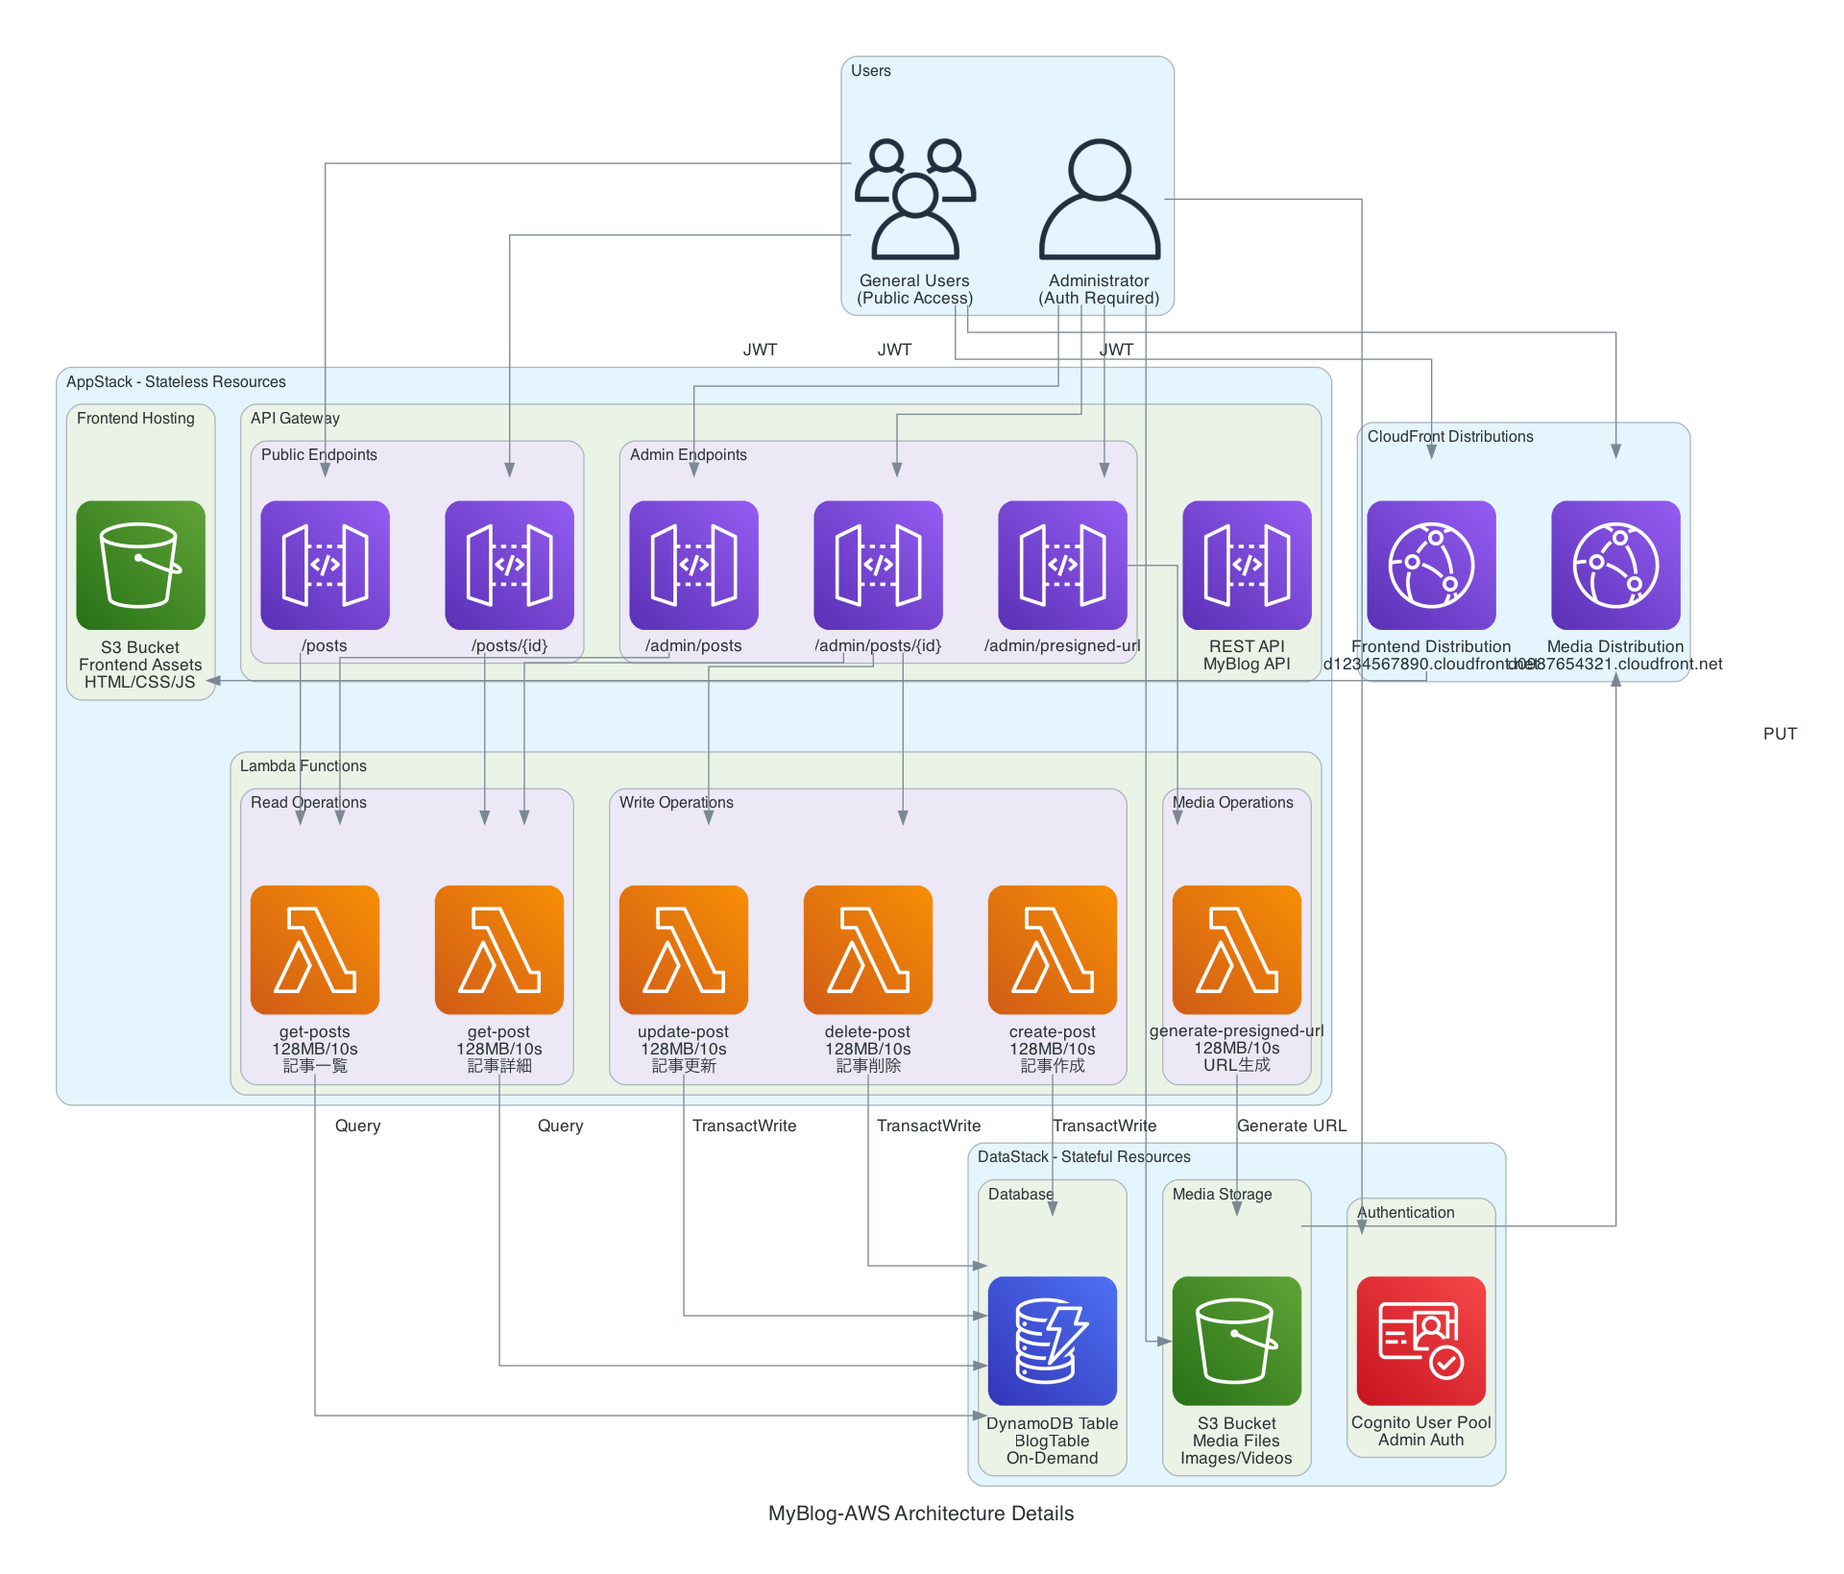
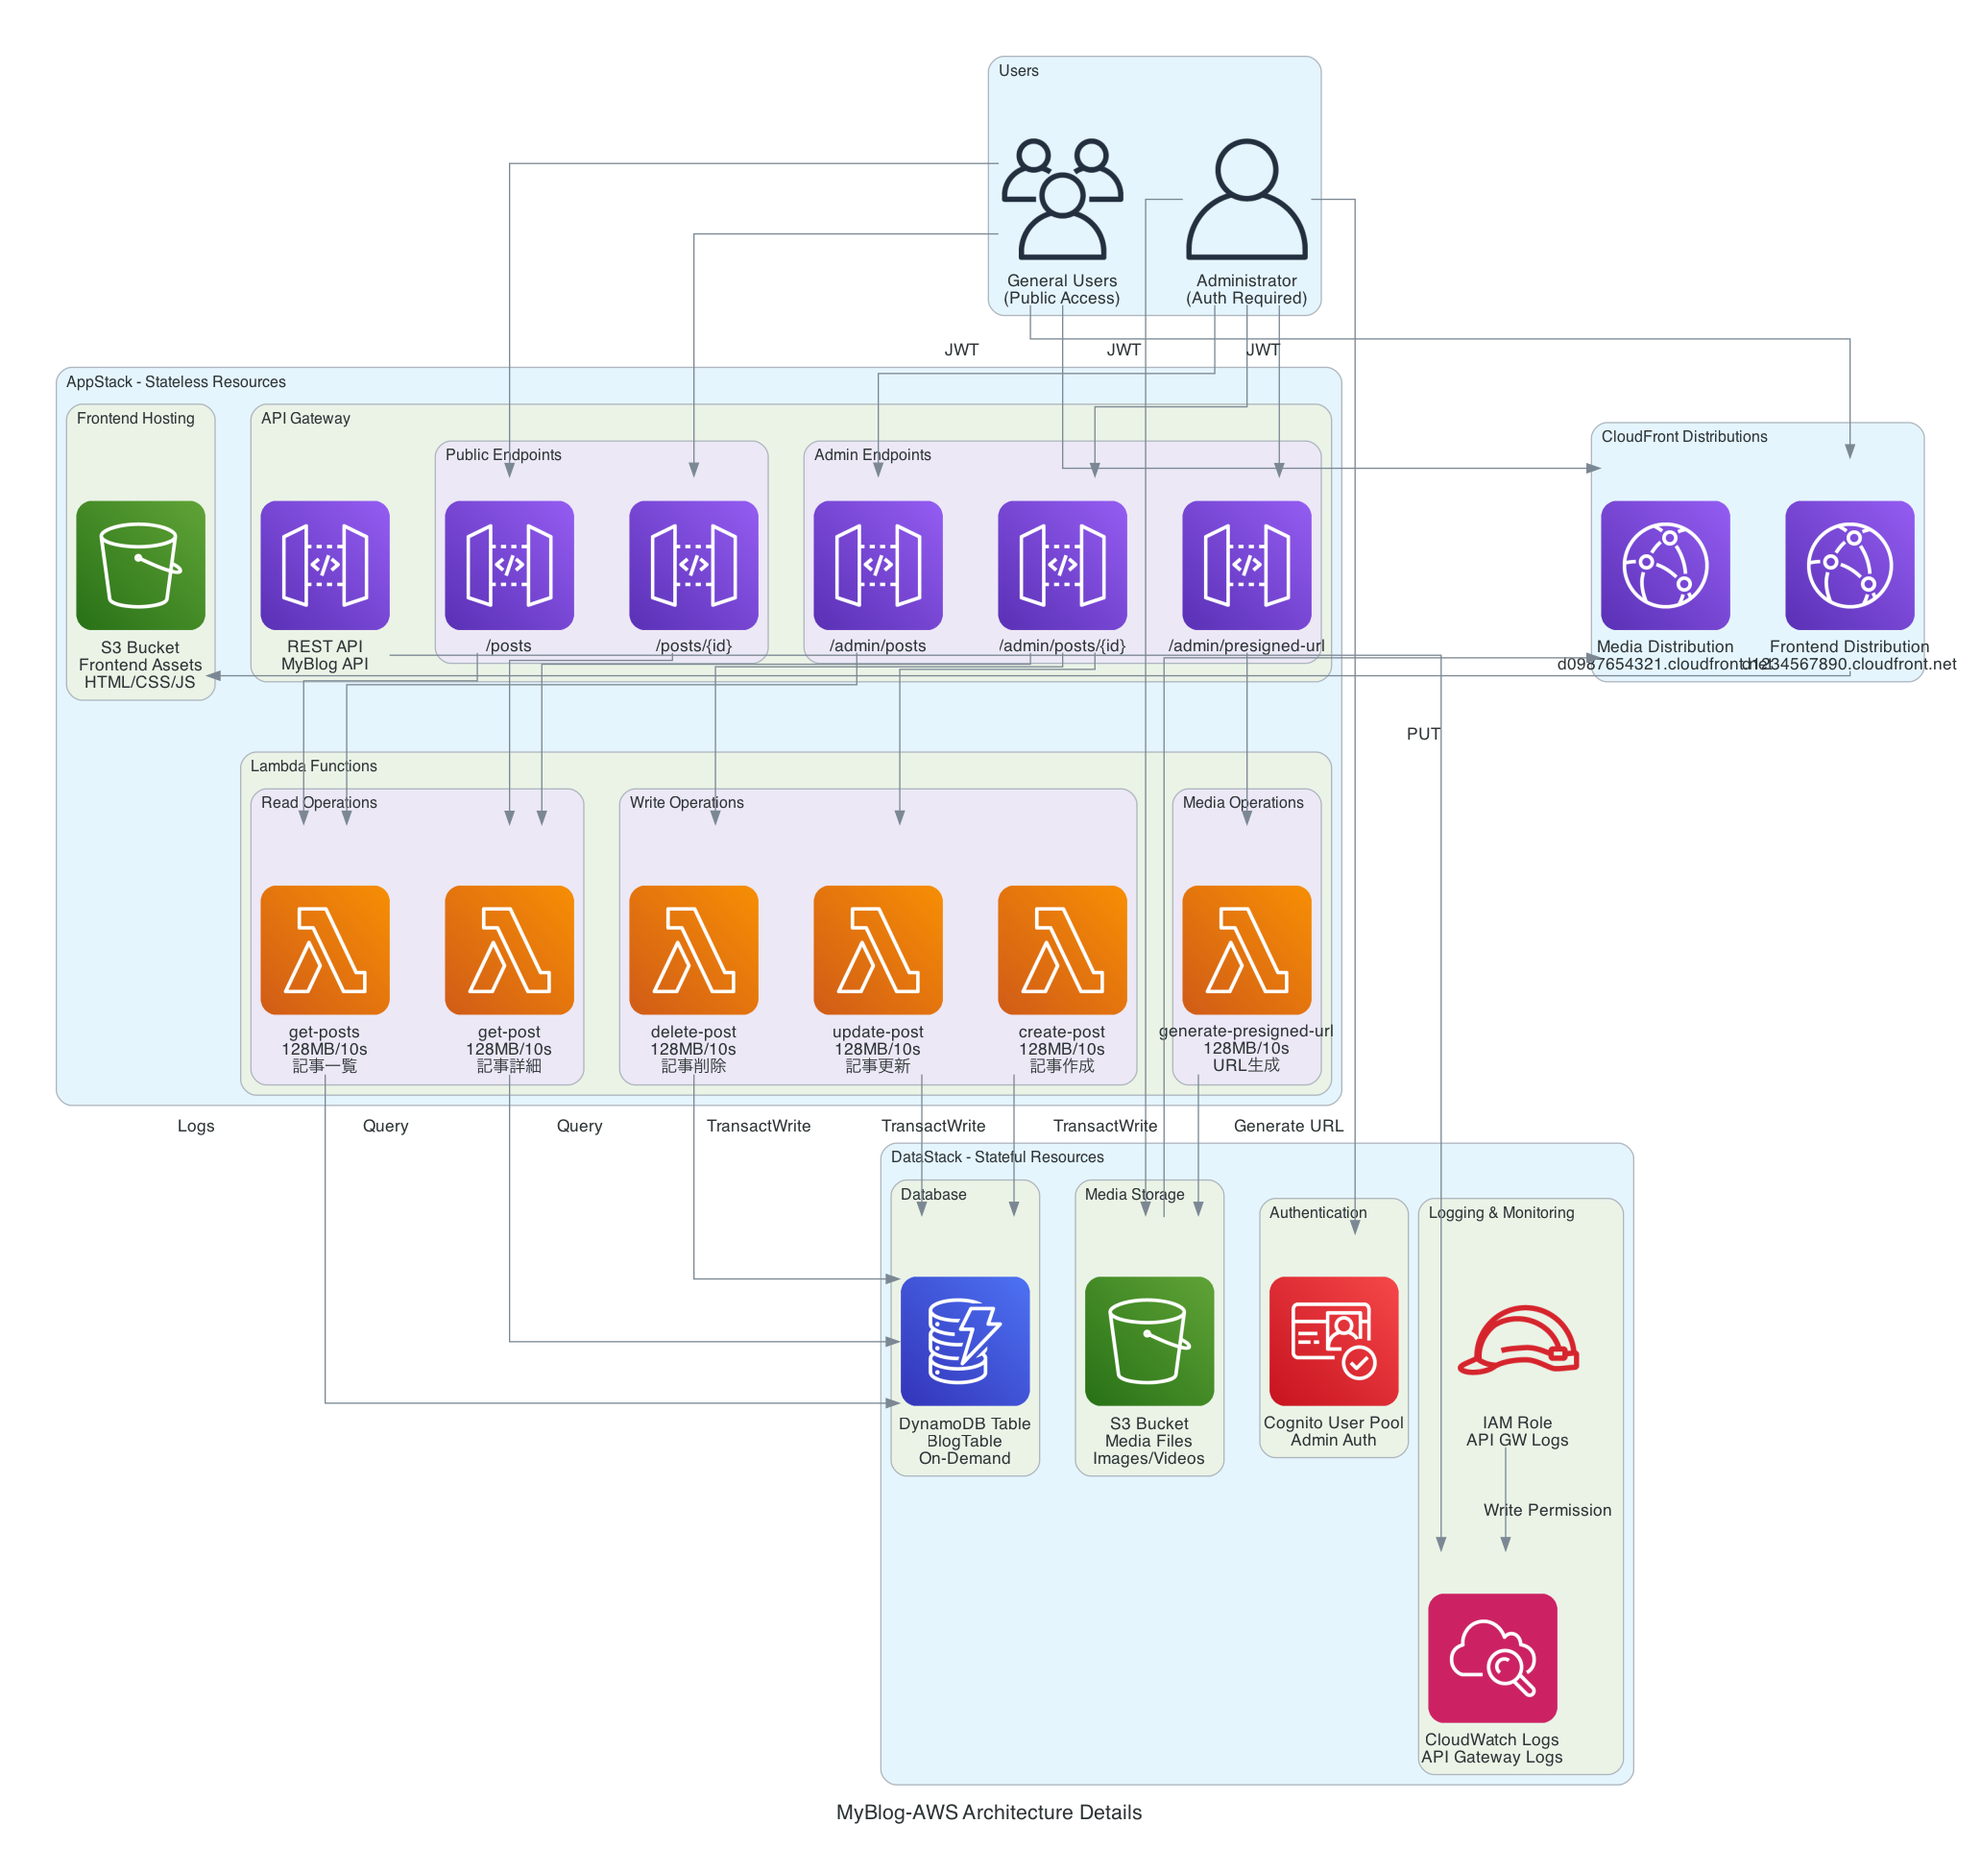
feat: Add CloudWatch Logs for API Gateway
- Add API Gateway CloudWatch Logs role in DataStack
- Enable API Gateway logging in AppStack (INFO level, data trace, metrics)
- Update architecture diagram to include CloudWatch Logs and IAM role
- Regenerate architecture diagrams with updated infrastructure
- Update CDK bootstrap configuration

diff --git a/myblog-aws/lib/data-stack.ts b/myblog-aws/lib/data-stack.ts
@@ -5,6 +5,7 @@ import * as s3 from 'aws-cdk-lib/aws-s3';
 import * as cognito from 'aws-cdk-lib/aws-cognito';
 import * as cloudfront from 'aws-cdk-lib/aws-cloudfront';
 import * as origins from 'aws-cdk-lib/aws-cloudfront-origins';
+import * as iam from 'aws-cdk-lib/aws-iam';
 
 export class DataStack extends cdk.Stack {
   // 他のスタックから参照できるようにpublicプロパティとして公開
@@ -13,6 +14,7 @@ export class DataStack extends cdk.Stack {
   public readonly mediaDistribution: cloudfront.Distribution;
   public readonly userPool: cognito.UserPool;
   public readonly userPoolClient: cognito.UserPoolClient;
+  public readonly apiGatewayCloudWatchRole: iam.Role;
 
   constructor(scope: Construct, id: string, props?: cdk.StackProps) {
     super(scope, id, props);
@@ -285,6 +287,21 @@ export class DataStack extends cdk.Stack {
       
       // セキュリティ設定
       preventUserExistenceErrors: true,  // ユーザー存在チェック攻撃を防ぐ
+    });
+
+    // ==========================================================
+    // API Gateway CloudWatch Logs Role
+    // ==========================================================
+    // API GatewayがCloudWatch Logsに書き込むためのIAMロール
+    // これはAWSアカウント全体で1つのみ設定される
+    this.apiGatewayCloudWatchRole = new iam.Role(this, 'ApiGatewayCloudWatchRole', {
+      assumedBy: new iam.ServicePrincipal('apigateway.amazonaws.com'),
+      description: 'IAM role for API Gateway to write logs to CloudWatch',
+      managedPolicies: [
+        iam.ManagedPolicy.fromAwsManagedPolicyName(
+          'service-role/AmazonAPIGatewayPushToCloudWatchLogs'
+        ),
+      ],
     });
 
     // ==========================================================

diff --git a/myblog-aws/lib/app-stack.ts b/myblog-aws/lib/app-stack.ts
@@ -297,6 +297,12 @@ export class AppStack extends cdk.Stack {
       },
     });
 
+    // API Gateway Account設定（CloudWatch Logsロール）
+    // これはAWSアカウント全体で1つのみ設定される
+    const apiGatewayAccount = new apigateway.CfnAccount(this, 'ApiGatewayAccount', {
+      cloudWatchRoleArn: props.dataStack.apiGatewayCloudWatchRole.roleArn,
+    });
+
     // ==========================================================
     // Cognito Authorizer（管理者向けAPI用）
     // ==========================================================

diff --git a/documents/architecture_diagram.py b/documents/architecture_diagram.py
@@ -15,7 +15,8 @@ from diagrams.aws.compute import Lambda
 from diagrams.aws.database import Dynamodb
 from diagrams.aws.storage import S3
 from diagrams.aws.network import CF, APIGateway
-from diagrams.aws.security import Cognito
+from diagrams.aws.security import Cognito, IAMRole
+from diagrams.aws.management import Cloudwatch
 from diagrams.onprem.client import Users, User
 
 # グラフ設定
@@ -138,6 +139,11 @@ with Diagram(
         # Authentication
         with Cluster("Authentication"):
             cognito_pool = Cognito("Cognito User Pool\nAdmin Auth")
+        
+        # Logging & Monitoring
+        with Cluster("Logging & Monitoring"):
+            cw_logs = Cloudwatch("CloudWatch Logs\nAPI Gateway Logs")
+            iam_logs_role = IAMRole("IAM Role\nAPI GW Logs")
     
     # フロー: Frontend
     general_user >> cf_frontend >> s3_frontend
@@ -166,6 +172,10 @@ with Diagram(
     # フロー: Media Delivery
     s3_media_bucket >> cf_media_dist
     general_user >> cf_media_dist
+    
+    # フロー: Logging
+    api_gw >> Edge(label="Logs") >> cw_logs
+    iam_logs_role >> Edge(label="Write Permission") >> cw_logs
 
 
 print("✅ Architecture diagrams generated successfully!")
